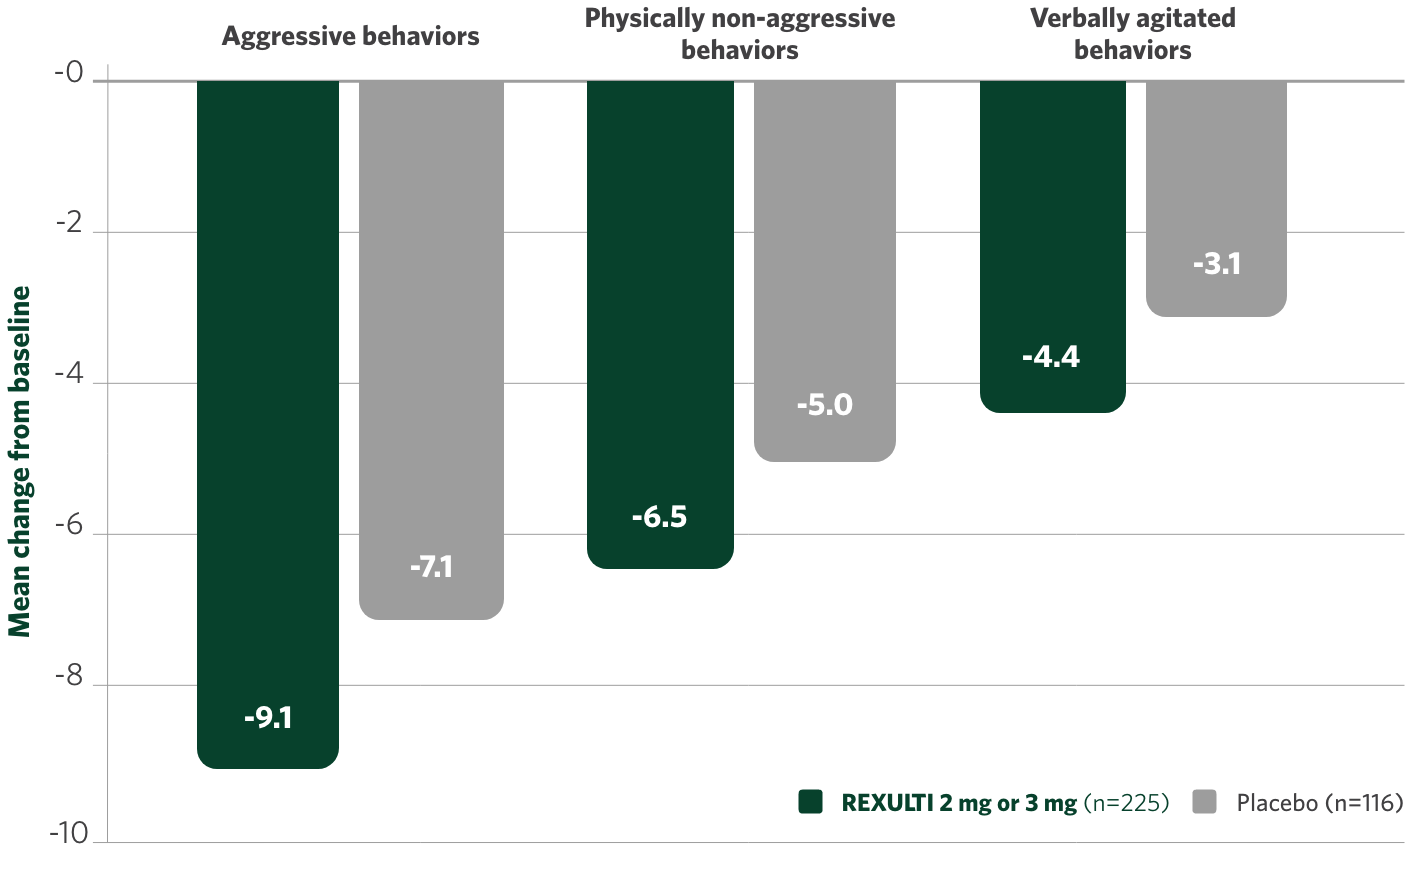
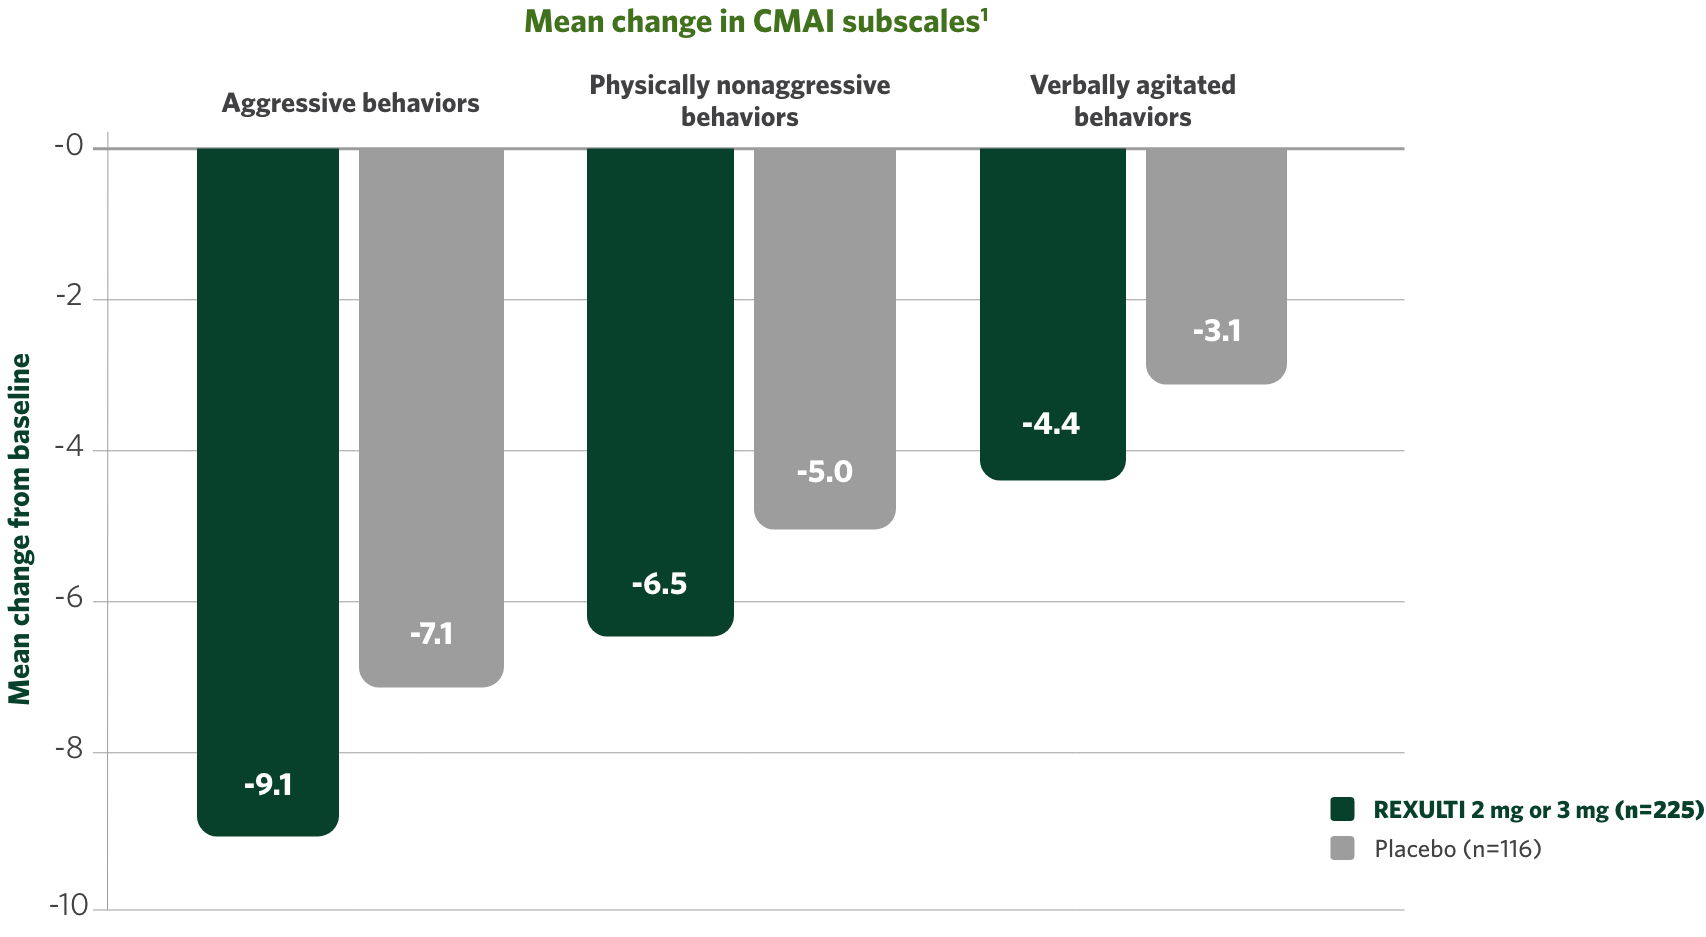
DF-34844 | R1 - R.3.4.3_Study_7

diff --git a/projects/veeva-clm/src/Components/05-pages/R.3.4.3_Study_7/R.3.4.3_Study_7.tsx b/projects/veeva-clm/src/Components/05-pages/R.3.4.3_Study_7/R.3.4.3_Study_7.tsx
@@ -16,18 +16,32 @@ const PageContent = () => {
       </Header>
       <Paragraph
         custom={`mb-24 ${styles.pivotal_trials}`}
-        children='In the pivotal trials, the change in frequency across CMAI subscales was measured as a secondary endpoint'
+        children={
+          <>
+            <strong>Secondary endpoint:</strong> Change from baseline at Week 12
+            in CMAI subscale scores.
+          </>
+        }
       />
-      <Header type='h3' custom={`${styles.h3} mb-14`}>
-        Mean change in CMAI subscales<sup>1</sup>
-      </Header>
       <img className={styles.image_1} src={PageImage} alt='' width='852' />
       <Footer
         custom={styles.footer}
+        footnotes={{
+          data: [
+            {
+              innerText: 'CMAI, Cohen-Mansfield Agitation Inventory.',
+            },
+          ],
+        }}
         references={{
           data: [
             {
-              text: <span>Data on file. Otsuka.</span>,
+              text: (
+                <span>
+                  Grossberg GT, et al. Poster presented at: Psych Congress;
+                  September 17-20, 2022; New Orleans, LA.
+                </span>
+              ),
             },
           ],
         }}

diff --git a/projects/veeva-clm/src/Components/05-pages/R.3.4.3_Study_7/R.3.4.3_Study_7.module.scss b/projects/veeva-clm/src/Components/05-pages/R.3.4.3_Study_7/R.3.4.3_Study_7.module.scss
@@ -29,7 +29,7 @@
   img.image_1 {
     position: relative;
     left: 0;
-    width: 690px;
+    width: 850px;
     max-width: none;
   }
 
